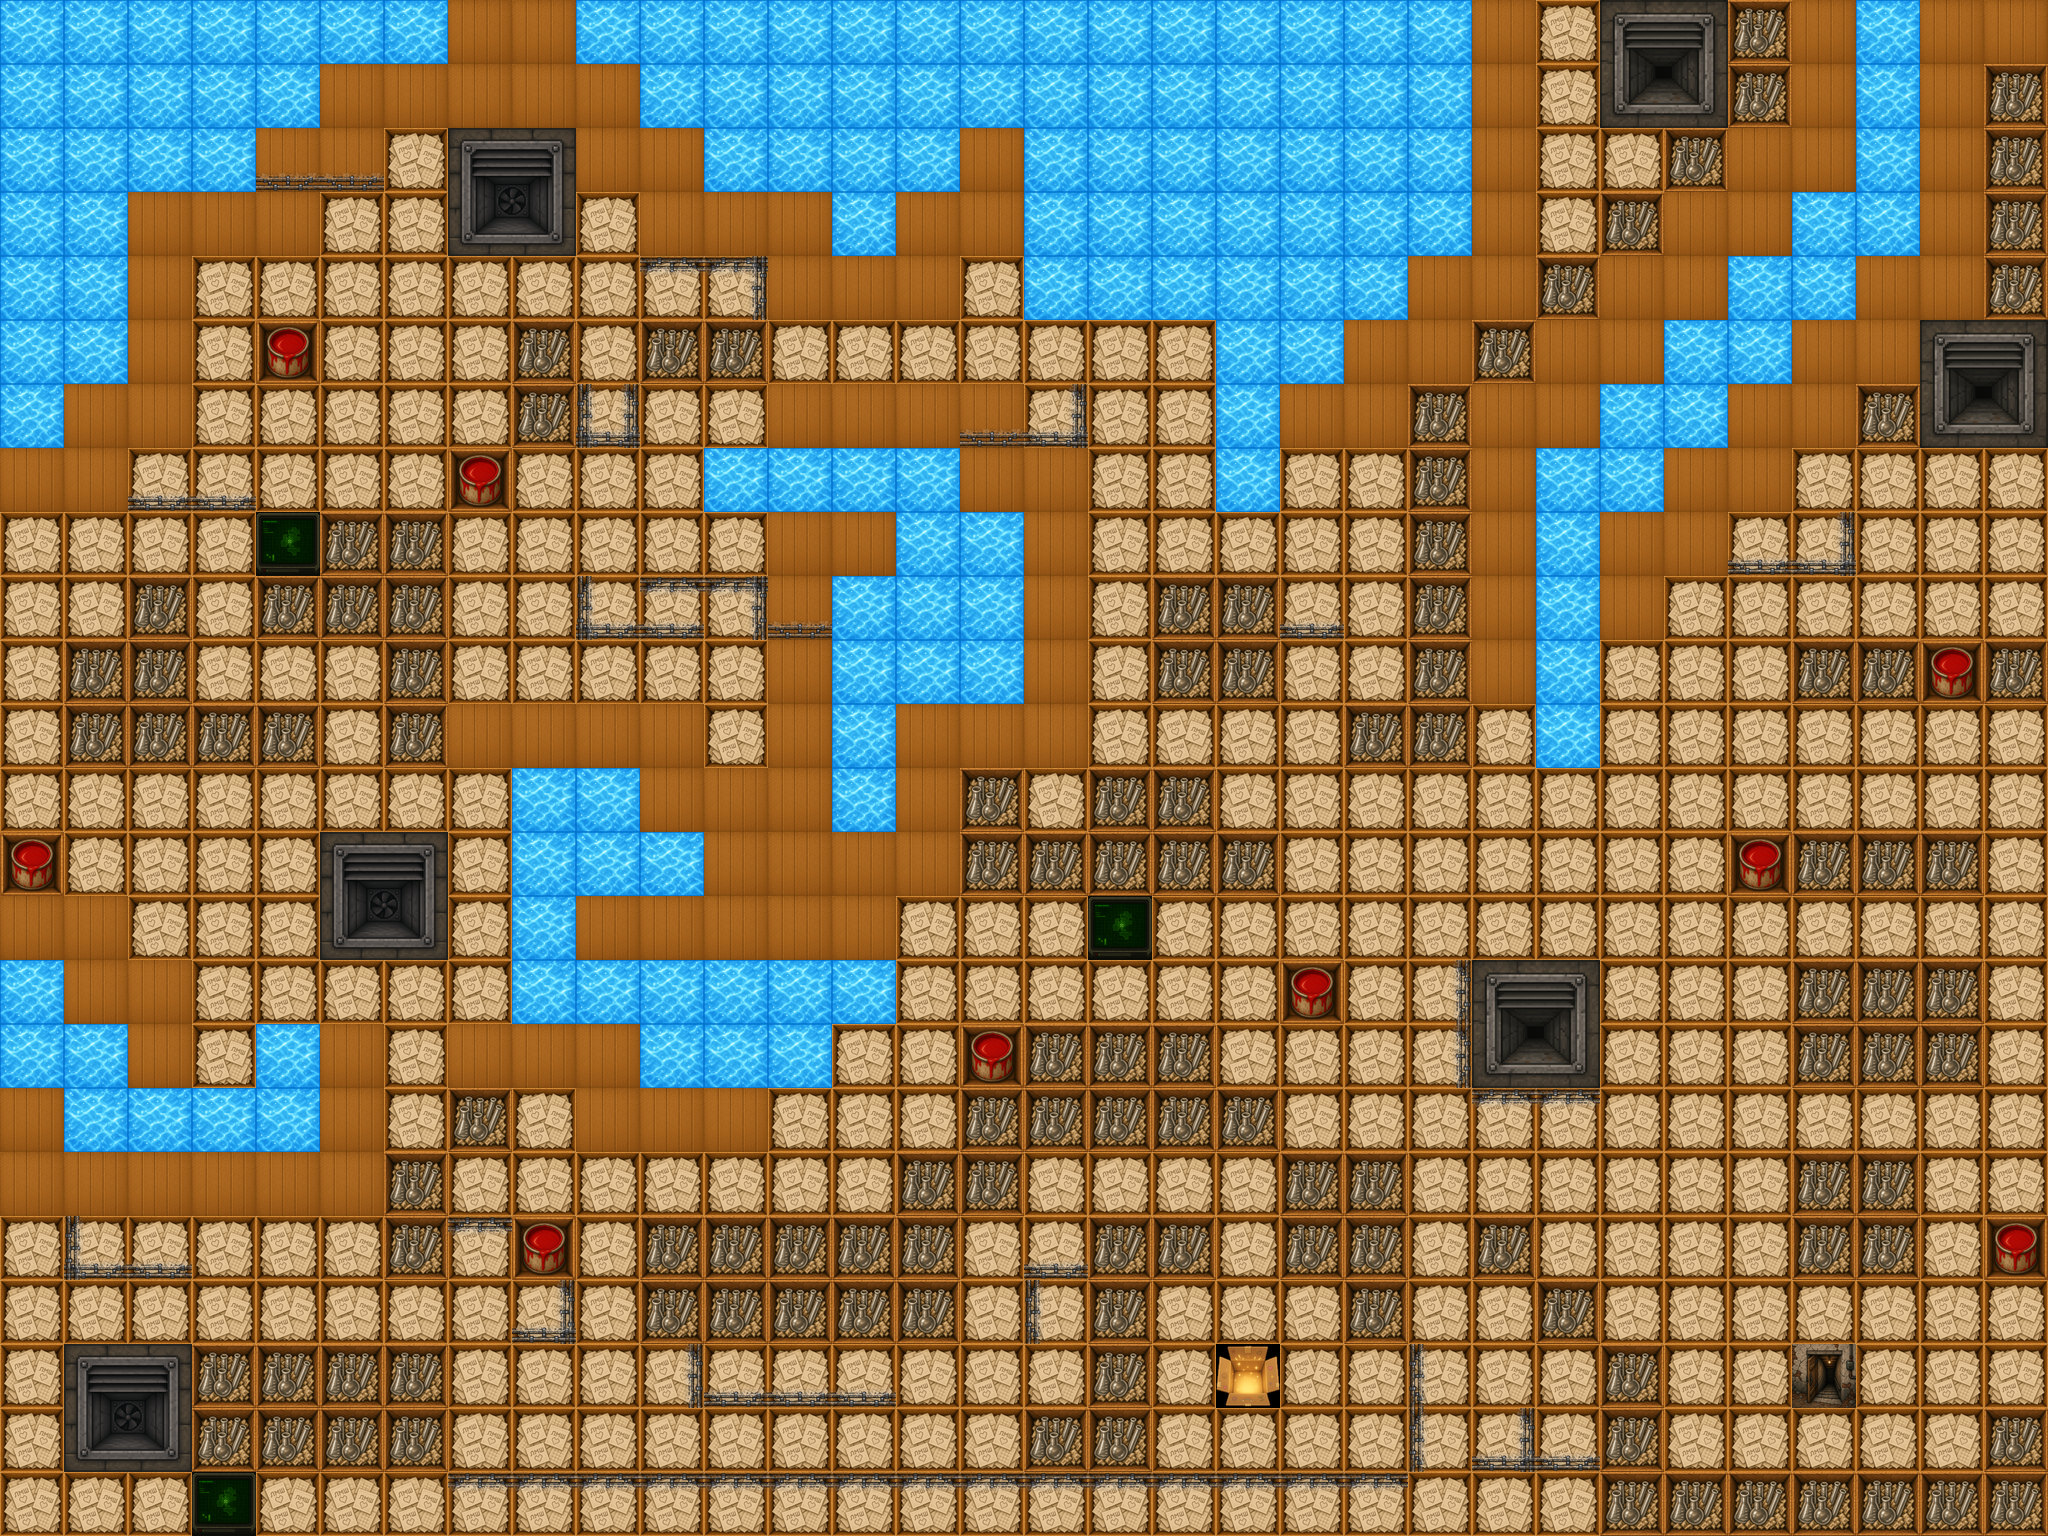
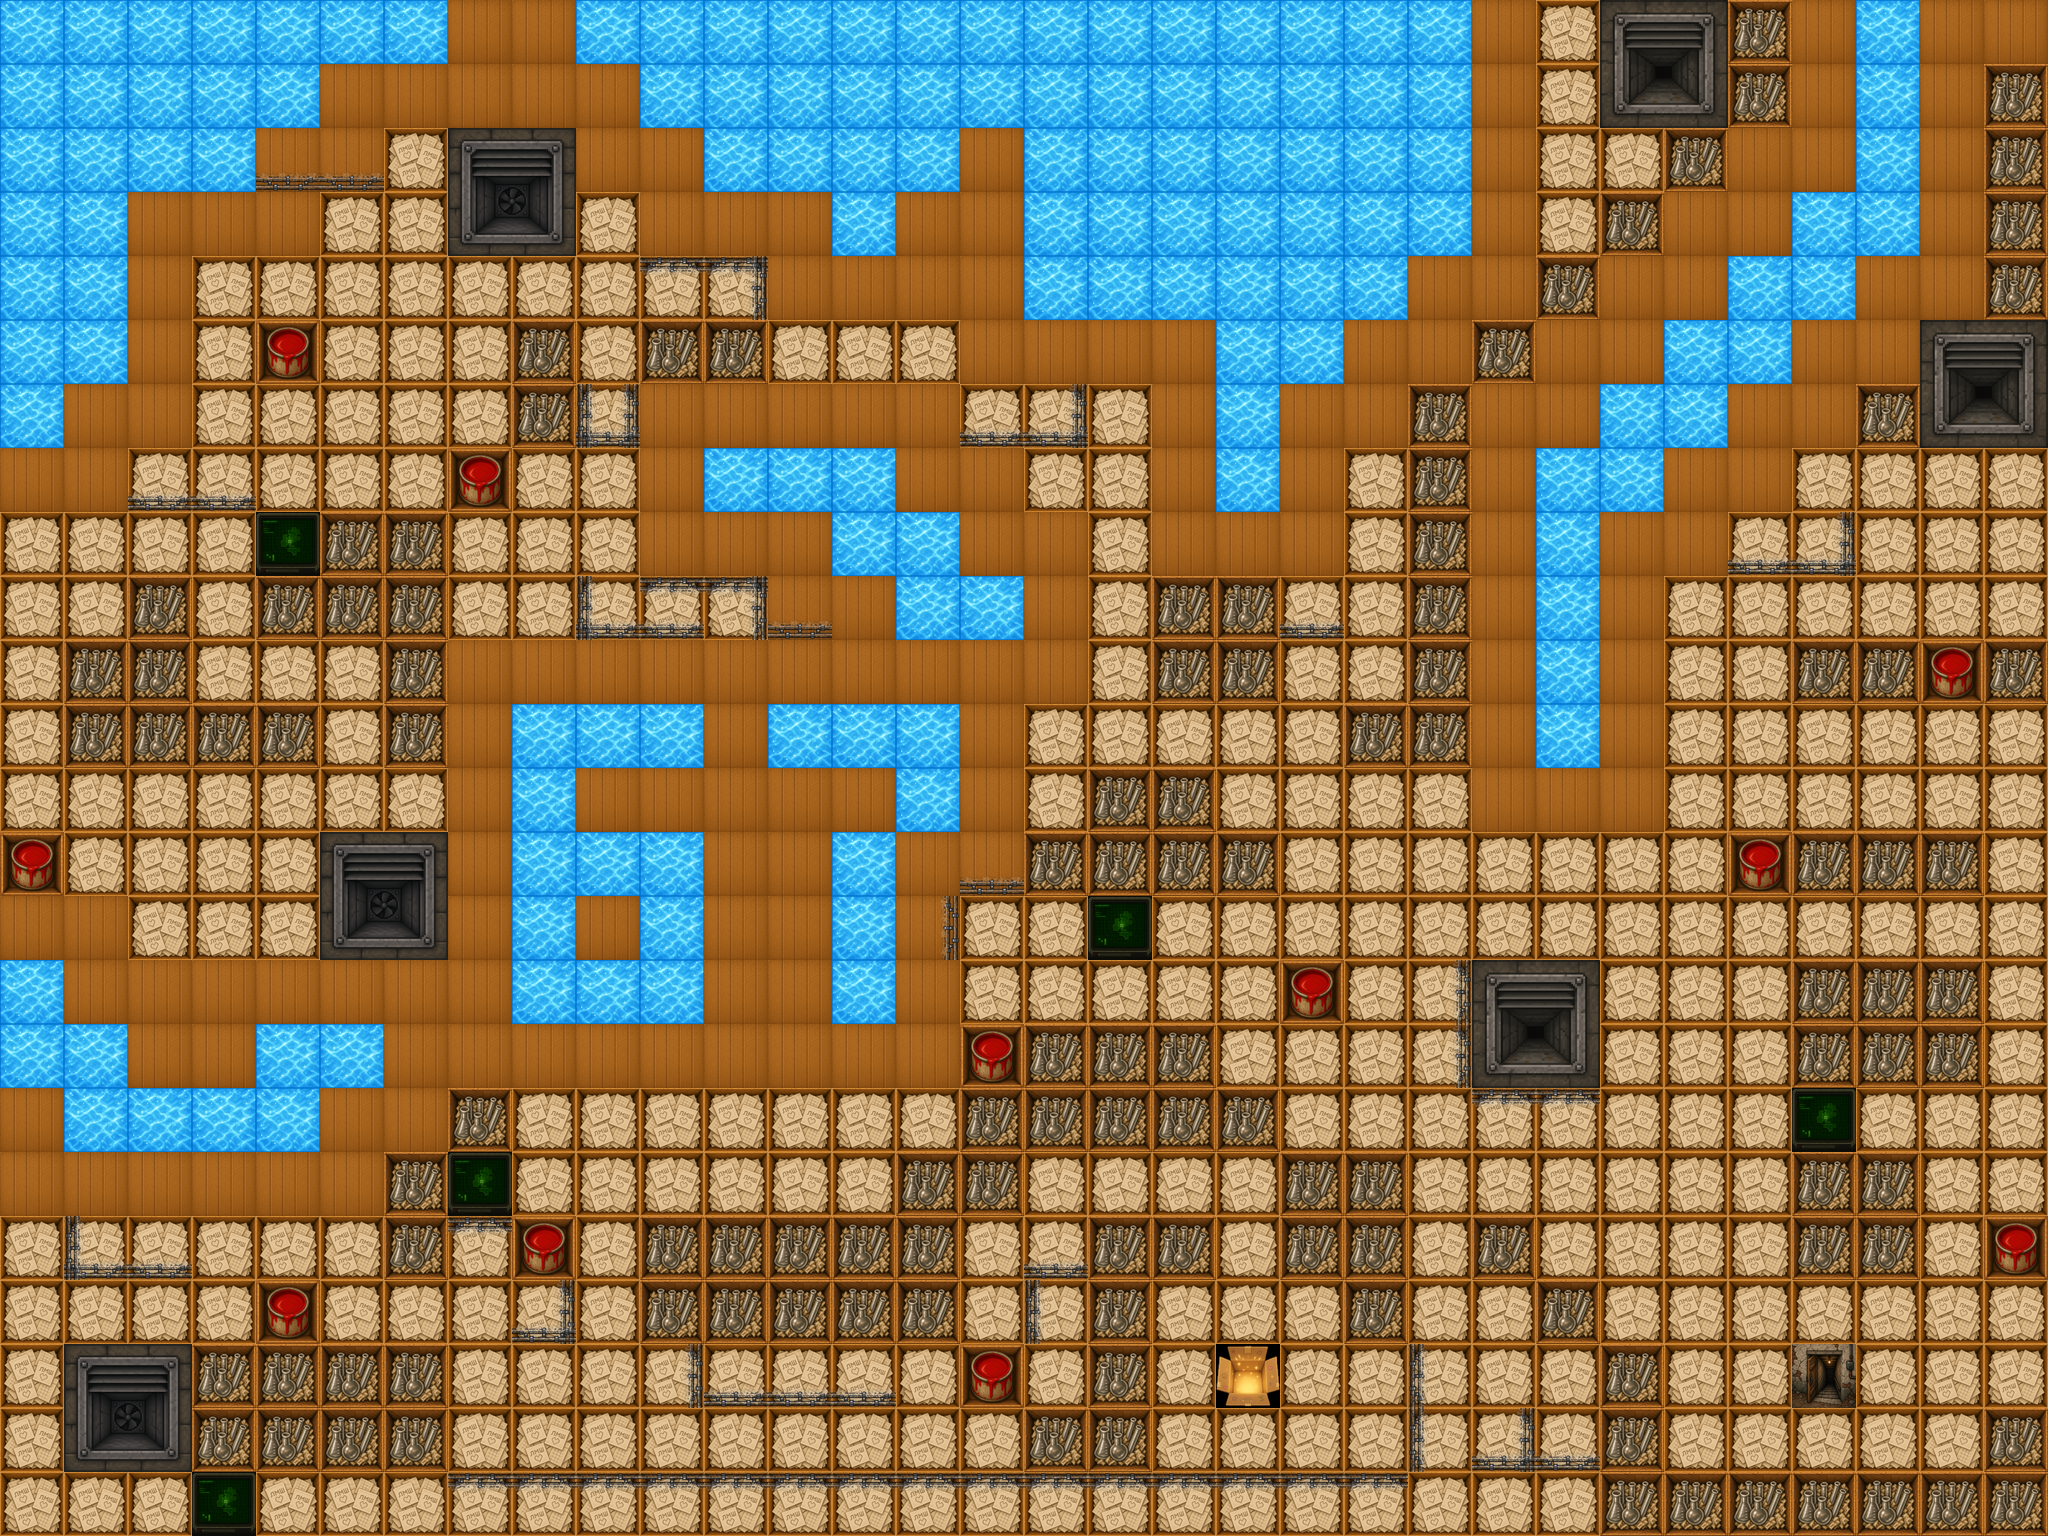
fix: update paint explosion delay text

diff --git a/gnome-field/src/stores/app.js b/gnome-field/src/stores/app.js
@@ -731,7 +731,7 @@ export const useAppStore = defineStore("app", {
 
         let journalMsg = null;
         if (oldTileType == TileTypes.Bomb)
-          journalMsg = "Банка треснула. Красное пятно через 2 секунды!";
+          journalMsg = "Банка треснула. Красное пятно через 1 секунду!";
         else if (oldTileType == TileTypes.PortalEntrance)
           journalMsg = "Живокрысик нырнул в вентиляционную трубу.";
         else if (oldTileType == TileTypes.Mole)